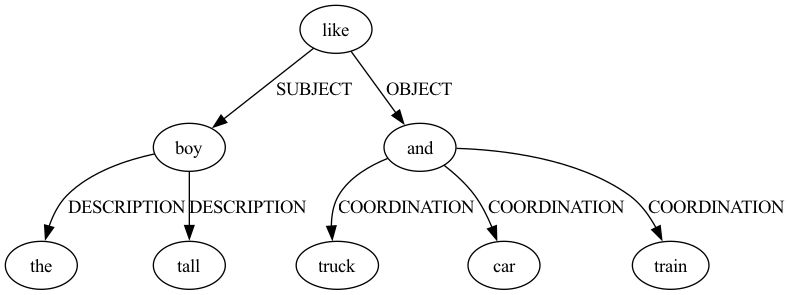
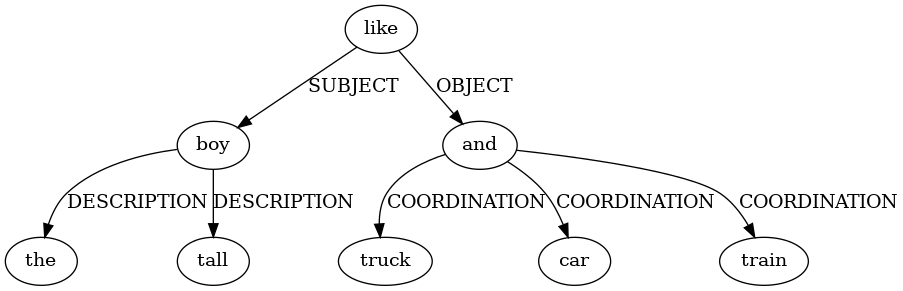
committing

diff --git a/webber/parser.go b/webber/parser.go
@@ -1,0 +1,91 @@
+package main
+
+import (
+	"naomi/webber/parser"
+)
+
+var consumption []bool
+var words []*Node
+var length int
+var edges []*Connection
+
+type ConFrame struct {
+	parent     *Node
+	child      *Node
+	childIndex int
+	conType    ConnectionType
+}
+
+func SentenceParse(w []*Node) {
+
+	words = w
+	consumption = make([]bool, len(words))
+	length = len(words)
+
+}
+
+func iterativeParse(rules []parser.Rule) {
+	index := 0
+	var connectionQueue []ConFrame
+	for wordIndex := 0; wordIndex < length; wordIndex++ {
+		if consumption[wordIndex] {
+			continue
+		}
+		currentWord := words[wordIndex]
+		connectionQueue = []ConFrame{}
+		for _, rule := range rules {
+			//Check rule, if -1 then continue
+			//add parts
+		}
+		for _, connection := range connectionQueue {
+			Connect(connection.conType, connection.parent, connection.child)
+			//if consumption is true:
+			consumption[connection.childIndex] = true
+		}
+		//if recursive, wordIndex-1
+	}
+}
+
+func build_connection(frame ConFrame) {
+
+}
+
+func get_unconsumed(dir int, part Tag, index int) int {
+	next := dir + index
+	if next < 0 || next > length {
+		return -1
+	}
+	for consumption[next] {
+		next += dir
+		if next+dir < 0 || next+dir > length {
+			return -1
+		}
+	}
+
+	if words[next].Value.POS != part {
+		return -1
+	}
+
+	return next
+}
+
+func get_all(dir int, part Tag, index int) []int {
+	indices := []int{}
+	next := get_unconsumed(dir, part, index)
+	for next != -1 {
+		indices = append(indices, next)
+		next = get_unconsumed(dir, part, next)
+	}
+
+	return indices
+}
+
+func get_amount(amount int, dir int, part Tag, index int) []int {
+	//This is a super helper function. If you want the next unconsumed,
+	//you can input 1. If you want all of the unconsumed in that direction,
+	//you can put -1. Plan to implement ability to shift over start point for
+	//gap searches (think verbs and various types of objects)
+
+	indices = get_all(dir, part, index)
+	return
+}
